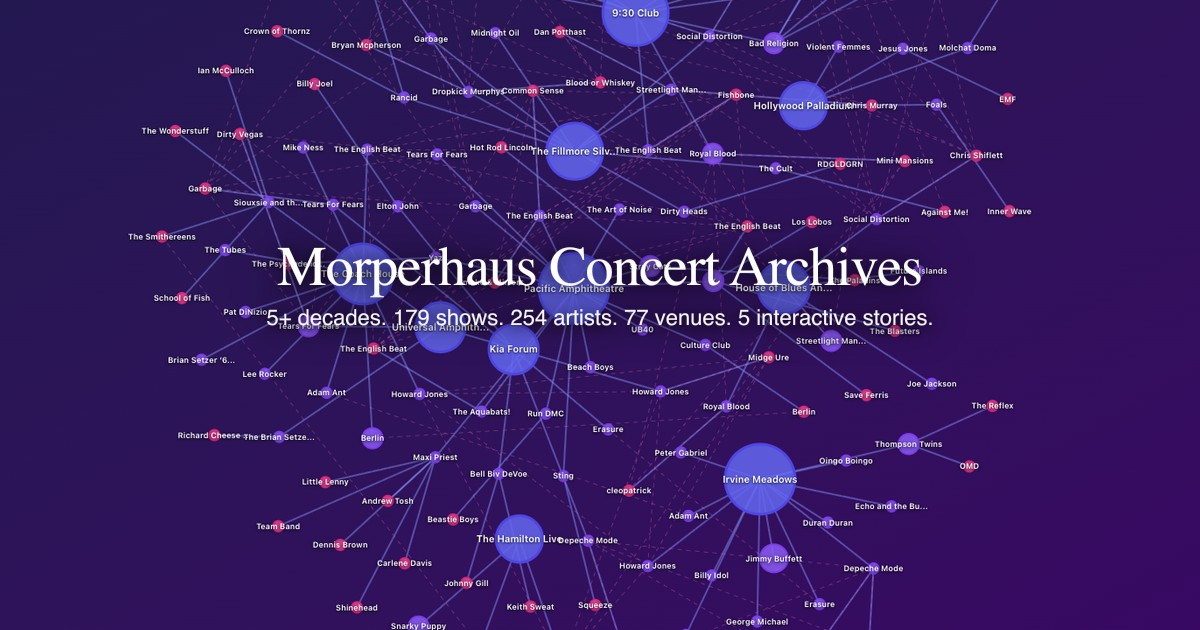
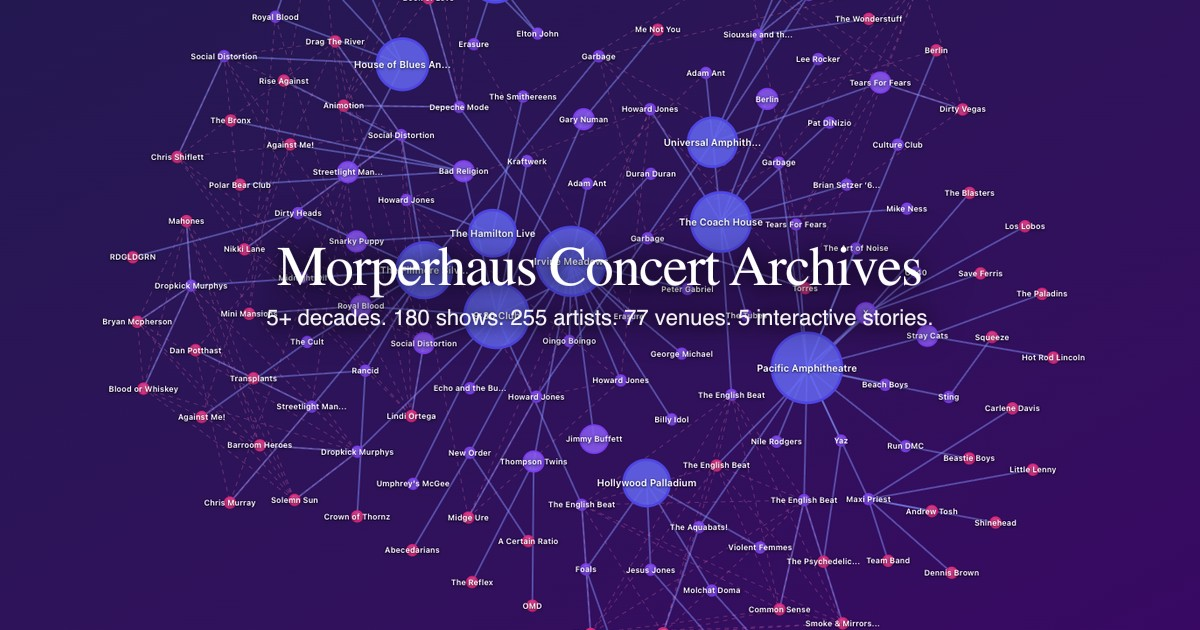
release: v4.3.2 - iTunes 100% artist coverage

Changed region(s): [[0.0925, 0.0, 0.8942, 1.0], [0.2775, 0.9349, 0.37, 1.0], [0.8325, 0.4524, 0.8942, 0.4825]]

diff --git a/.claude/context.md b/.claude/context.md
@@ -2,7 +2,7 @@
 
 ## Quick Start
 
-**Version:** v4.3.1 (Production)
+**Version:** v4.3.2 (Production)
 **Status:** Live at concerts.morperhaus.org
 **Last Sync:** 2026-02-06
 
@@ -103,11 +103,11 @@ These docs provide essential context for common development tasks:
 
 **Recent Releases:**
 
+- **v4.3.2** (2026-03-07): iTunes 100% coverage — search aliases + artist ID lookup for Brian Setzer variants and The Roots (internal)
 - **v4.3.1** (2026-03-07): iTunes-only audio pipeline — drop Deezer (15-min token TTL made it unviable), 429 retry logic, enrich:tracks wired into build-data (internal)
 - **v4.3.0** (2026-03-07): On Deck — upcoming concert badges on Timeline cards and Artist profiles
 - **v4.2.2** (2026-03-07): Venue photos restored — fix expiring Google Places API references, date display fix, Nile Rodgers data
 - **v4.2.1** (2026-02-06): OAuth credentials separation, page tracking utility, spec documentation updates (internal)
-- **v4.2.0** (2026-02-05): SEO Ecosystem & Tooling - Hybrid testing strategy, documentation improvements, GA4 integration fixes (internal)
 - **v4.1.0** (2026-02-05): iOS Home Screen Icons & Favicon - Purple network design with icon generation tooling
 - **v4.0.3** (2026-02-04): Documentation updates - Internal release
 - **v4.0.2** (2026-02-03): Mobile Audio Preview - Enabled playback in mobile Artist modal
@@ -194,4 +194,4 @@ See `.claude/commands/README.md` for full documentation.
 
 ---
 
-*Last updated: 2026-03-07 by Claude Code for v4.3.1 release*
+*Last updated: 2026-03-07 by Claude Code for v4.3.2 release*

diff --git a/CLAUDE.md b/CLAUDE.md
@@ -3,7 +3,7 @@
 Interactive web application for exploring personal concert history (1984-present).
 
 **Live:** https://concerts.morperhaus.org
-**Version:** v4.3.1 | 179 concerts, 254 artists, 77 venues
+**Version:** v4.3.2 | 179 concerts, 254 artists, 77 venues
 **Stack:** Vite 6, React 18, TypeScript 5, Tailwind 4, D3.js 7, Leaflet
 
 ---
